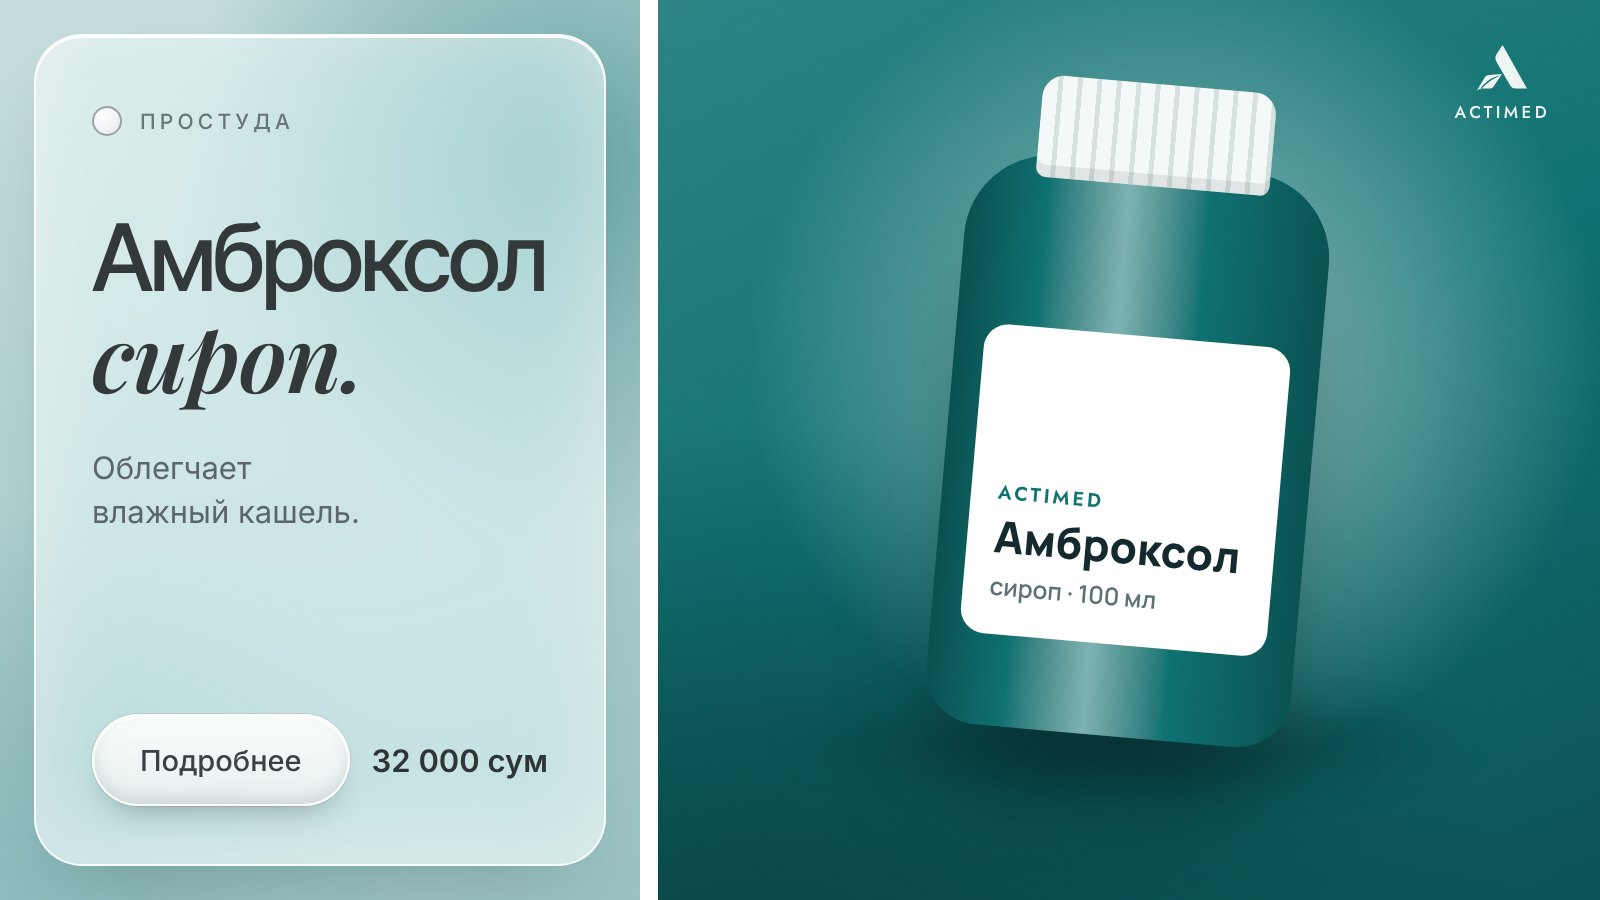
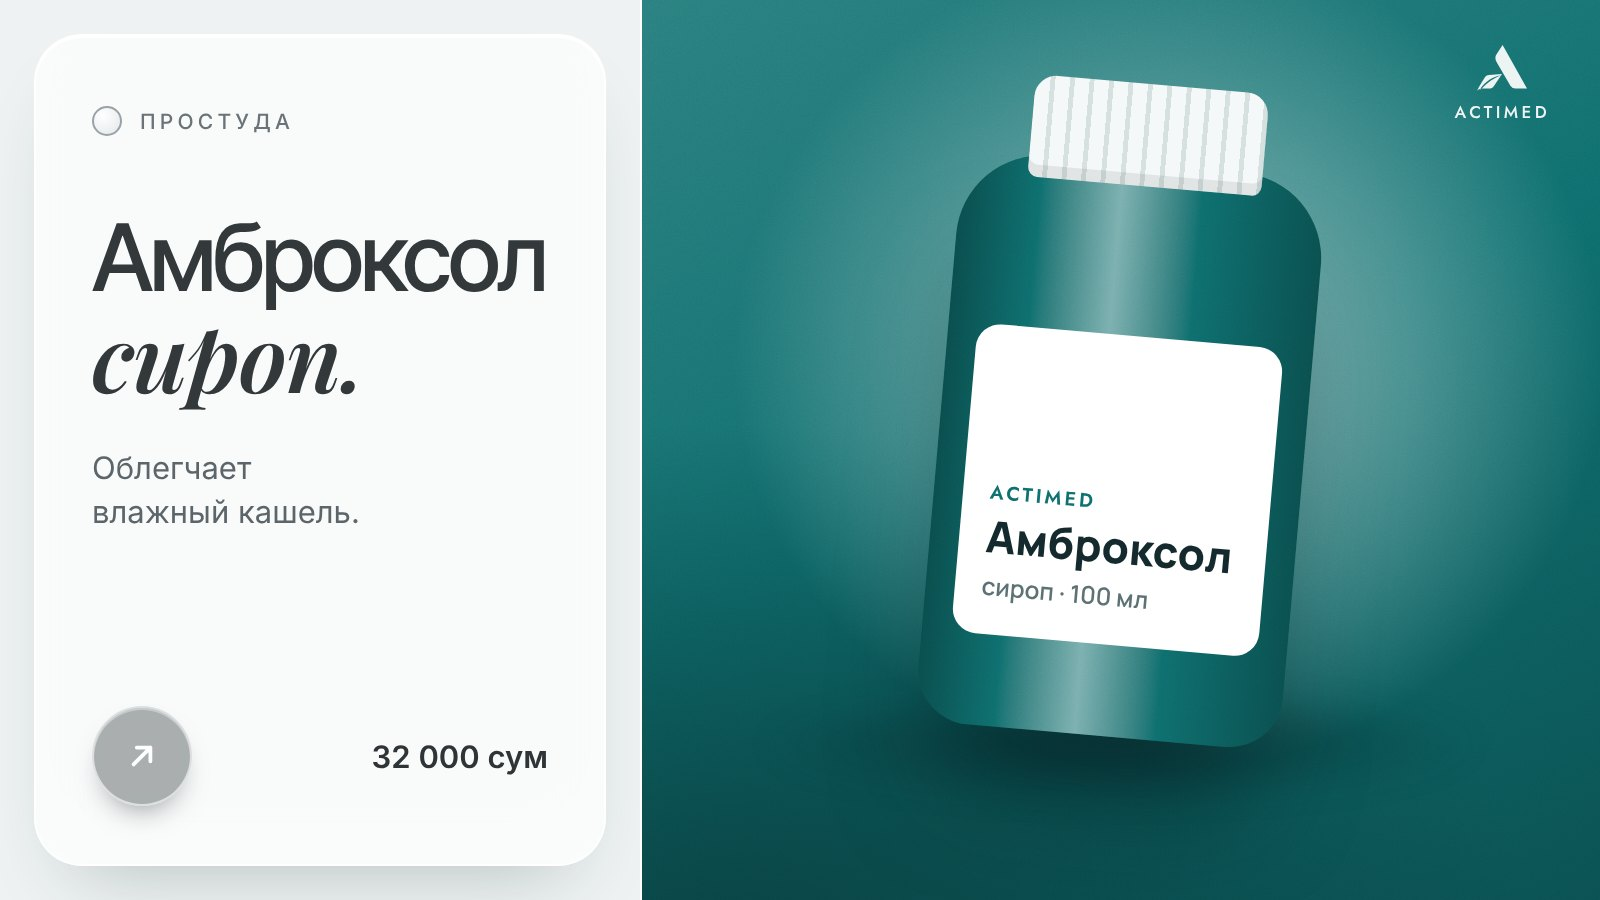
Refine ribbon cards and product page per feedback
- Ribbon cards: hairline 2px white divider; plain background behind the
  description panel; round frosted button with an arrow instead of the
  'Подробнее' pill.
- Product page: no opening animation, the pack sits still under the
  title with the side labels beside it; no fade when opening a product
  from the ribbon.
- Remove the word 'аптека' from titles, meta, footer and docs.

Claude-Session: https://claude.ai/code/session_01PbBW3Besvns8EBZjTKQ2LW

diff --git a/site/css/style.css b/site/css/style.css
@@ -1,5 +1,5 @@
 /* =========================================================
-   Actimed — онлайн-аптека
+   Actimed
    Правило проекта: никаких анимаций при наведении (hover).
    Движение — от прокрутки, перетаскивания и по клику (меню).
    ========================================================= */
@@ -55,9 +55,6 @@ a, button { transition: none; }
   position: absolute !important; width: 1px; height: 1px; overflow: hidden;
   clip: rect(0 0 0 0); white-space: nowrap; border: 0; padding: 0; margin: -1px;
 }
-
-/* уход со страницы по клику на карточку */
-html.is-leaving body { opacity: 0; transition: opacity .25s ease; }
 
 /* =========================================================
    Шапка (как у Agrumea)
@@ -221,48 +218,47 @@ a.round-btn:hover { background: var(--hdr); color: var(--hdr-on); }
 }
 .pd { --c: var(--primary); }
 
-/* ----- первый экран ----- */
-.pd-hero { position: relative; height: 100vh; min-height: 640px; }
+/* ----- первый экран: название, под ним упаковка, по бокам подписи ----- */
+.pd-hero {
+  position: relative; padding: max(150px, 21vh) var(--gutter) 0;
+  display: grid; grid-template-columns: 1fr auto 1fr; align-items: center; column-gap: 2vw;
+}
 .pd-hero__title {
-  position: absolute; left: var(--gutter); right: var(--gutter); top: max(150px, 22vh);
-  display: flex; flex-direction: column; align-items: center; text-align: center;
+  grid-column: 1 / -1; display: flex; flex-direction: column; align-items: center; text-align: center;
   font-family: var(--font-display); font-weight: 400; font-size: clamp(56px, 11.2vw, 200px); line-height: .86;
   text-transform: uppercase; letter-spacing: -.005em; color: var(--primary);
 }
 .pd-hero__title span { white-space: nowrap; }
 .pd-hero__side {
-  position: absolute; top: 74vh; max-width: 13ch;
-  font-family: var(--font-display); font-size: clamp(20px, 2.5vw, 38px); line-height: 1.04; color: var(--primary);
+  max-width: 13ch; font-family: var(--font-display); font-size: clamp(20px, 2.5vw, 38px); line-height: 1.04; color: var(--primary);
 }
-.pd-hero__side--l { left: 10vw; }
-.pd-hero__side--r { right: 10vw; text-align: right; }
+.pd-hero__side--l { grid-column: 1; grid-row: 2; justify-self: start; padding-left: 8vw; }
+.pd-hero__side--r { grid-column: 3; grid-row: 2; justify-self: end; text-align: right; padding-right: 8vw; }
 .pd-hero__product {
-  position: absolute; left: 50%; top: 58vh; z-index: 2; height: auto;
-  transform: translate3d(-50%, 0, 0); transform-origin: 50% 30%; will-change: transform;
+  grid-column: 2; grid-row: 2; height: auto; margin-top: 1vh;
   filter: drop-shadow(0 40px 40px rgba(11, 46, 51, .18));
 }
-.pd-hero__product--box { width: min(42vw, 640px); }
-.pd-hero__product--bottle { width: min(30vw, 440px); }
-.pd-hero__product--tube { width: min(28vw, 420px); }
-.pd-hero__product--device { width: min(40vw, 600px); }
-.pd-hero__product--thermo { width: min(16vw, 240px); }
-.pd-hero--empty { height: 80vh; }
-.pd-empty { position: absolute; left: 0; right: 0; top: 62vh; text-align: center; }
+.pd-hero__product--box { width: min(40vw, 600px); }
+.pd-hero__product--bottle { width: min(28vw, 420px); }
+.pd-hero__product--tube { width: min(26vw, 400px); }
+.pd-hero__product--device { width: min(38vw, 560px); }
+.pd-hero__product--thermo { width: min(15vw, 230px); }
+.pd-hero--empty { display: block; padding-bottom: 20vh; }
+.pd-empty { margin-top: 8vh; text-align: center; }
 @media (max-width: 700px) {
-  .pd-hero { height: 92vh; }
-  .pd-hero__title { top: 140px; }
-  .pd-hero__side { top: auto; bottom: 8vh; font-size: 18px; }
-  .pd-hero__side--l { left: var(--gutter); }
-  .pd-hero__side--r { right: var(--gutter); }
-  .pd-hero__product { top: 46vh; }
-  .pd-hero__product--box, .pd-hero__product--device { width: 78vw; }
+  .pd-hero { grid-template-columns: 1fr 1fr; padding-top: 130px; row-gap: 12px; }
+  .pd-hero__product { grid-column: 1 / -1; justify-self: center; }
+  .pd-hero__side { grid-row: 3; padding: 0; font-size: 18px; }
+  .pd-hero__side--l { grid-column: 1; }
+  .pd-hero__side--r { grid-column: 2; }
+  .pd-hero__product--box, .pd-hero__product--device { width: 80vw; }
   .pd-hero__product--bottle, .pd-hero__product--tube { width: 52vw; }
-  .pd-hero__product--thermo { width: 30vw; }
+  .pd-hero__product--thermo { width: 28vw; }
 }
 
 /* ----- описание ----- */
 .pd-about {
-  position: relative; z-index: 3; max-width: 820px; margin: 0 auto; padding: 18vh var(--gutter) 6vh;
+  position: relative; max-width: 820px; margin: 0 auto; padding: 8vh var(--gutter) 6vh;
   display: flex; flex-direction: column; align-items: center; gap: 22px; text-align: center;
 }
 .pd-diamond { width: 11px; height: 11px; background: var(--primary); transform: rotate(45deg); }
@@ -365,7 +361,7 @@ a.round-btn:hover { background: var(--hdr); color: var(--hdr-on); }
 
 /* без анимаций по системной настройке */
 @media (prefers-reduced-motion: reduce) {
-  .site-menu, .site-menu__item > span, html.is-leaving body { transition: none !important; }
+  .site-menu, .site-menu__item > span { transition: none !important; }
 }
 
 /* ---------- Футер (по образцу String-tune) ---------- */

diff --git a/site/tools/scene.html b/site/tools/scene.html
@@ -23,18 +23,15 @@
     --c: #2FA36B;
     position: relative; width: 1600px; height: 900px; overflow: hidden; background: #fff;
   }
-  /* левая часть: мягкий цветной фон, поверх него матовое стекло */
+  /* левая часть: ровный светлый фон, поверх него полупрозрачная панель с описанием */
   .card__left {
     position: absolute; left: 0; top: 0; width: 640px; height: 900px; overflow: hidden;
-    background:
-      radial-gradient(85% 60% at 88% 18%, color-mix(in srgb, var(--c) 62%, white) 0%, transparent 70%),
-      radial-gradient(80% 55% at 8% 96%, color-mix(in srgb, var(--c) 48%, white) 0%, transparent 72%),
-      linear-gradient(165deg, color-mix(in srgb, var(--c) 24%, white) 0%, color-mix(in srgb, var(--c) 42%, white) 100%);
+    background: #EEF2F2;
   }
   .glass {
     position: absolute; left: 34px; top: 34px; right: 34px; bottom: 34px; border-radius: 48px;
-    background: rgba(255, 255, 255, .46);
-    -webkit-backdrop-filter: blur(40px) saturate(1.35); backdrop-filter: blur(40px) saturate(1.35);
+    background: rgba(255, 255, 255, .62);
+    -webkit-backdrop-filter: blur(30px); backdrop-filter: blur(30px);
     border: 2px solid rgba(255, 255, 255, .9);
     box-shadow:
       inset 0 2px 0 rgba(255, 255, 255, .95),
@@ -57,23 +54,23 @@
   .heading__b { font-family: "Playfair Display", serif; font-style: italic; font-weight: 600; letter-spacing: -.01em; margin-top: 2px; }
   .sub { margin-top: 44px; font-family: Inter, sans-serif; font-size: 31px; line-height: 1.42; color: #5C656A; }
   .bottom { position: absolute; left: 56px; right: 56px; bottom: 58px; display: flex; align-items: center; justify-content: space-between; gap: 20px; }
-  .pill {
-    display: inline-flex; align-items: center; height: 92px; padding: 0 46px; border-radius: 999px;
-    font-family: Inter, sans-serif; font-weight: 500; font-size: 29px; color: #3A4043;
-    background: linear-gradient(180deg, rgba(255, 255, 255, .82), rgba(236, 240, 241, .6));
-    -webkit-backdrop-filter: blur(16px); backdrop-filter: blur(16px);
-    border: 2px solid rgba(255, 255, 255, .95);
-    box-shadow: inset 0 -6px 14px rgba(150, 160, 165, .25), inset 0 3px 0 #fff, 0 18px 30px -16px rgba(30, 45, 48, .35), 0 0 0 1px rgba(160, 170, 175, .35);
+  .go {
+    width: 100px; height: 100px; border-radius: 50%; display: grid; place-items: center; flex: none;
+    background: rgba(72, 80, 82, .46);
+    -webkit-backdrop-filter: blur(18px) saturate(1.2); backdrop-filter: blur(18px) saturate(1.2);
+    border: 2px solid rgba(255, 255, 255, .6);
+    box-shadow: inset 0 2px 0 rgba(255, 255, 255, .35), 0 16px 30px -16px rgba(20, 30, 32, .55);
   }
+  .go svg { width: 42px; height: 42px; fill: none; stroke: #fff; stroke-width: 3.6; stroke-linecap: round; stroke-linejoin: round; }
   .price { font-family: Inter, sans-serif; font-weight: 600; font-size: 31px; color: #2F3437; white-space: nowrap; text-align: right; }
   .price small { display: block; font-weight: 500; font-size: 19px; color: #A0672A; letter-spacing: .08em; text-transform: uppercase; margin-bottom: 4px; }
 
   /* белая полоса */
-  .card__strip { position: absolute; left: 640px; top: 0; width: 18px; height: 900px; background: #fff; }
+  .card__strip { position: absolute; left: 640px; top: 0; width: 2px; height: 900px; background: #fff; }
 
   /* правая часть: товар */
   .card__right {
-    position: absolute; left: 658px; right: 0; top: 0; bottom: 0; overflow: hidden;
+    position: absolute; left: 642px; right: 0; top: 0; bottom: 0; overflow: hidden;
     background:
       radial-gradient(70% 70% at 55% 40%, color-mix(in srgb, var(--c) 45%, white) 0%, transparent 65%),
       radial-gradient(120% 90% at 10% 110%, color-mix(in srgb, var(--c) 45%, #04191C) 0%, transparent 70%),
@@ -267,7 +264,7 @@
           '<p class="caps">' + esc(cat.short) + '</p>' +
           '<h1 class="heading"><span class="heading__a" data-fit>' + esc(p.title) + '</span><span class="heading__b" data-fit>' + esc(p.accent) + '</span></h1>' +
           '<p class="sub">' + esc(p.short[0]) + '<br>' + esc(p.short[1]) + '</p>' +
-          '<div class="bottom"><span class="pill">Подробнее</span><span class="price">' + (p.rx ? '<small>Рецепт</small>' : '') + priceText(p.price) + '</span></div>' +
+          '<div class="bottom"><span class="go"><svg viewBox="0 0 40 40"><path d="M12 28 28 12M15 12h13v13"/></svg></span><span class="price">' + (p.rx ? '<small>Рецепт</small>' : '') + priceText(p.price) + '</span></div>' +
         '</div>' +
       '</div>' +
       '<span class="card__strip"></span>' +

diff --git a/site/product.html b/site/product.html
@@ -4,7 +4,7 @@
   <meta charset="utf-8">
   <meta name="viewport" content="width=device-width, initial-scale=1">
   <title>Товар — Actimed</title>
-  <meta name="description" content="Actimed — онлайн-аптека в Ташкенте.">
+  <meta name="description" content="Actimed: лекарства и товары для здоровья в Ташкенте.">
   <link rel="icon" href="img/logo-mark.svg" type="image/svg+xml">
   <link rel="preconnect" href="https://fonts.googleapis.com">
   <link rel="preconnect" href="https://fonts.gstatic.com" crossorigin>
@@ -37,7 +37,7 @@
       <p class="footer__statement footer__statement--2">Доставка за 2 часа по Ташкенту.</p>
       <p class="footer__statement footer__statement--3">Фармацевт на связи круглосуточно.</p>
       <a class="footer__more" href="index.html">Все товары</a>
-      <nav class="footer__nav" aria-label="Связаться с аптекой">
+      <nav class="footer__nav" aria-label="Связаться с нами">
         <a class="footer__btn footer__btn--main" href="index.html">Лента товаров</a>
         <span class="footer__divider" aria-hidden="true"></span>
         <a class="footer__btn footer__btn--icon" href="tel:+998712000000" aria-label="Позвонить: +998 71 200-00-00">
@@ -48,8 +48,8 @@
         </a>
       </nav>
       <span class="footer__name" aria-hidden="true">ACTIMED</span>
-      <span class="footer__mark" aria-hidden="true"><span class="footer__logo"></span>онлайн-аптека</span>
-      <span class="footer__sub footer__sub--1">© Actimed, онлайн-аптека</span>
+      <span class="footer__mark" aria-hidden="true"><span class="footer__logo"></span></span>
+      <span class="footer__sub footer__sub--1">© Actimed</span>
       <span class="footer__sub footer__sub--2">Лицензия на фармдеятельность № 0000000</span>
       <span class="footer__sub footer__sub--3">Ташкент · ежедневно 8:00–23:00</span>
       <span class="footer__sub footer__sub--4">‘<span data-year-short>26</span></span>

diff --git a/site/js/product.js b/site/js/product.js
@@ -2,8 +2,7 @@
   Страница товара в духе Agrumea: product.html?id=<id товара>.
 
   • Огромное название, по бокам — категория и форма выпуска.
-  • Упаковка стоит внизу первого экрана и при прокрутке взлетает вверх
-    с наклоном, перекрывая название.
+  • Под названием — упаковка, она стоит неподвижно.
   • Описание с ромбами-разделителями, три колонки (как принимать, фасовка,
     срок годности), цена и «В корзину».
   • Лента картинок едет вбок при прокрутке, ниже — «Другие товары».
@@ -140,7 +139,6 @@
   window.addEventListener('resize', fitTitle);
 
   /* ---------- Движение от прокрутки ---------- */
-  var product = main.querySelector('[data-pd-product]');
   var gallery = main.querySelector('[data-pd-gallery]');
   var track = main.querySelector('[data-pd-track]');
   var raf = 0;
@@ -162,12 +160,6 @@
     var vh = window.innerHeight, vw = window.innerWidth;
     updateHeader(vh);
 
-    // упаковка взлетает с наклоном, как банка у Agrumea
-    var p1 = Math.min(1.6, Math.max(0, window.scrollY / (vh * 0.9)));
-    var e = 1 - Math.pow(1 - Math.min(1, p1), 2);
-    product.style.transform =
-      'translate3d(-50%,' + (-(e * 44 + Math.max(0, p1 - 1) * 40)) + 'vh,0) rotate(' + (e * 16) + 'deg) scale(' + (1 - e * 0.1) + ')';
-
     // лента картинок едет вбок
     var r = gallery.getBoundingClientRect();
     if (r.bottom > -100 && r.top < vh + 100) {
@@ -179,7 +171,6 @@
   function request() { if (!raf) raf = requestAnimationFrame(update); }
 
   if (reduceMotion) {
-    product.style.transform = 'translate3d(-50%,0,0)';
     track.style.transform = 'none';
     gallery.classList.add('is-static');
     window.addEventListener('scroll', function () { updateHeader(window.innerHeight); }, { passive: true });

diff --git a/site/index.html b/site/index.html
@@ -3,8 +3,8 @@
 <head>
   <meta charset="utf-8">
   <meta name="viewport" content="width=device-width, initial-scale=1">
-  <title>Actimed — онлайн-аптека</title>
-  <meta name="description" content="Actimed — онлайн-аптека в Ташкенте: лекарства, витамины и товары для здоровья с доставкой за 2 часа.">
+  <title>Actimed — лекарства и товары для здоровья</title>
+  <meta name="description" content="Actimed: лекарства, витамины и товары для здоровья в Ташкенте с доставкой за 2 часа.">
   <link rel="icon" href="img/logo-mark.svg" type="image/svg+xml">
   <link rel="preconnect" href="https://fonts.googleapis.com">
   <link rel="preconnect" href="https://fonts.gstatic.com" crossorigin>
@@ -17,7 +17,7 @@
   <div data-site-header data-theme="dark"></div>
 
   <main>
-    <h1 class="visually-hidden">Actimed — онлайн-аптека</h1>
+    <h1 class="visually-hidden">Actimed — лекарства и товары для здоровья</h1>
 
     <!-- Лента товаров (js/ribbon.js) -->
     <section class="ribbon" data-ribbon aria-label="Товары">

diff --git a/site/js/ribbon.js b/site/js/ribbon.js
@@ -37,8 +37,7 @@ const productUrl = (p) => `product.html?id=${encodeURIComponent(p.id)}`;
 const pad = (n) => String(n).padStart(2, '0');
 
 function go(p) {
-  document.documentElement.classList.add('is-leaving');
-  setTimeout(() => { location.href = productUrl(p); }, reduceMotion ? 0 : 260);
+  location.href = productUrl(p);
 }
 
 // Обычные ссылки на товары: для клавиатуры и экранного диктора, а без WebGL — видимая лента

diff --git a/site/README.md b/site/README.md
@@ -1,4 +1,4 @@
-# Actimed — сайт онлайн-аптеки
+# Actimed — сайт
 
 Статичный сайт на HTML, CSS и JavaScript, без сборки. Блоки сделаны по мотивам
 сайтов из `../sources/`; сами исходники не изменялись, чужой код и картинки в
